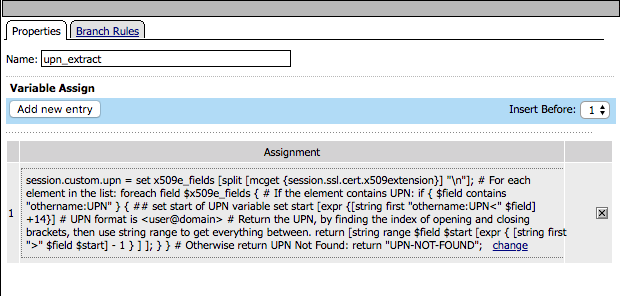
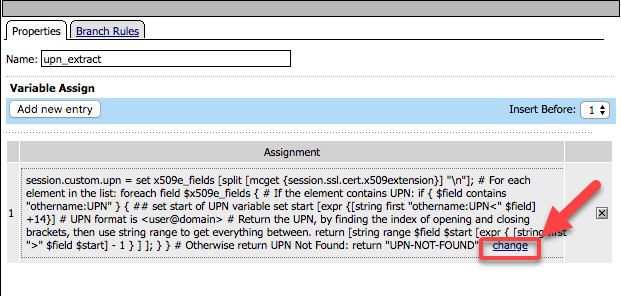
update lab3

Changed region(s): [[0.7649, 0.6081, 0.9791, 0.9122]]

diff --git a/class1/module2/lab03.rst b/class1/module2/lab03.rst
@@ -1,130 +1,205 @@
 Lab 3: Server-Side Single Sign-On
 =====================================
 
-The purpose of this lab is to demonstrate Single Sign-On capabilities
-of APM.    The SSO Credential Mapping action enables users to forward
-stored user names and passwords to applications and servers automatically,
-without having to input credentials repeatedly.   This allows single
-sign-on (SSO) functionality for secure user access.  As different applications
-and resources support different authentication mechanisms, the SSO system
-may be required to store and transform credentials to meet these requirements.
-For example, username and password may be transformed into forms-based
-authentication, a SAML assertion into Kerberos or Kerberos authentication into
-SAML.
+The purpose of this lab is to demonstrate Single Sign-On capabilities of APM.  The SSO Credential Mapping action enables users to forward
+stored user names and passwords to applications and servers automatically, without having to input credentials repeatedly.   This allows single
+sign-on (SSO) functionality for secure user access.  As different applications and resources support different authentication mechanisms, the SSO system
+may be required to store and transform credentials to meet these requirements. For example, username and password may be transformed into forms-based
+authentication, a SAML assertion into Kerberos or Kerberos authentication into SAML.
 
-Although a number of different SSO methods exist, this lab will demonstrate access
-single SSO method, the Kerberos to SAML method.
+Although a number of different SSO methods exist, this lab will demonstrate access single SSO method certificate authentication on the client side to Kerberos authentication to the backend server
 
 Objective:
 
--  Gain an understanding of SSO Token User Name Caching and SSO Token Password
-   Caching.
+-  Gain an understanding of authentication transformation through APM, client side vs server side
 
--  Gain an understanding of the Kerberos to SAML relationship and its
-   component parts.
+-  Gain an understanding of the leveraging different auth methods
 
--  Develop an awareness of the different deployment models that Kerberos
-   to SAML authentication opens up
+-  Develop an awareness of the different deployment models for single sign on
 
 Lab Requirements:
 
--  All Lab requirements will be noted in the tasks that follow
+-  Virtual Servers policies and configuration for this lab were completed through the automation run in Lab1.  We will review the components involved in this SSO solution.
 
 Estimated completion time: 15 minutes
 
-|Lab3-Image1|
+Task 1: Policy review
+-----------------------
 
-A user is prompted to select their certificate.
-The validation of the user certificates is controlled via CA bundles selected in the Client-side SSL Profile.
-The certificate is validated by OCSP if the user presents a certificate issued by a trusted CA
-The othername field is extracted from the certificate
-A LDAP query is performed to collect the sAMAccountName of the user
-The domain and username variables are set
-The user is granted access via the Allow Terminal
-If the LDAP Query is unsuccessful, the user proceeds down the fallback branch to the Deny Terminal
-If the OCSP check is unsuccessful, the user proceeds down the fallback branch to the Deny Terminal
-If the user fails to present a certificate, the user proceeds down the fallback branch to the Deny Terminal
+#. From the jumphost launch Chrome and login to bigip1.f5lab.local.  admin/admin
+
+#. Navigate to **Access** -> **Profiles/Policies** -> **Access Profiles (Per-Session Policies)**
+
+#. Locate solution6-psp and click **Edit**
+
+    |Lab3-Image1|
+
+    Let's walk through the policy flow:
+
+    - A user is prompted to select their certificate.
+
+    - The validation of the user certificates is controlled via CA bundles selected in the Client-side SSL Profile.
+
+    - The certificate is validated by OCSP if the user presents a certificate issued by a trusted CA
+
+    - The othername field is extracted from the certificate
+
+    - A LDAP query is performed to collect the sAMAccountName of the user
+
+    - The domain and username variables are set
+
+    - The user is granted access via the Allow Terminal
+
+    - If the LDAP Query is unsuccessful, the user proceeds down the fallback branch to the Deny Terminal
+
+    - If the OCSP check is unsuccessful, the user proceeds down the fallback branch to the Deny Terminal
+
+    - If the user fails to present a certificate, the user proceeds down the fallback branch to the Deny Terminal
+
+Task 2: Supporting APM Objects review
+---------------------------------------
+
+#. Navigate to **Access** -> **Authentication** -> **OCSP Responder** and click on the AAA OCSP Responder object **solution6-ocsp-servers**
+
+#. Change the configuration from **Basic** to **Advanced**.  The OCSP Responder has been configured with the following settings:
+
+    - URL: this field is only used if you check the Ignore AIA field
+
+    - Certificate Authority File: contains the root ca bundle
+
+    - Certificate Authority Path: this field is only used if you check the Ignore AIA field
+
+    - The rest of the settings are default
+
+    |Lab3-Image10|
+
+#. Navigate to **Access** -> **Authentication** -> **LDAP** for the AAA LDAP Object
+
+#. Click on **solution6-ldap-servers**. A single LDAP server of 10.1.20.7 has been configured with a admin service account to support queries
+
+    |Lab3-Image11|
+
+#. Navigated to **Access** -> **Single Sign-On** -> **Kerberos** and review the Kerberos SSO Object **solution6-kerbsso**
+
+    - The Username Source field has been modified from the default to reference the sAMAccountName stored in session.logon.last.username
+
+    - Kerberos Realm has been set to the Active Directory domain (realms should always be in uppercase)
+
+    - The service account used for Kerberos Constrained Delegation (Service Account Names should be in SPN format)
+
+    - SPN Pattern has been hardcoded to HTTP/solution6.acme.com (This is only necessary if the SPN doesn’t match the FQDN typed in the web browser by the user)
+
+    |Lab3-Image12|
+
+Task 3: Access Profile Configuration
+--------------------------------------
+
+#. Navigate to **Access** -> **Profiles/Policies** -> **Access Profiles (Per-Session Policies)** and locate the **solution6-psp** profile.  Click on the profile and review the customized APM Profile Settings
+
+#. Click on the SSO/Auth Domains of the APM profile and note it is configured with the Kerberos SSO Profile which will be used to authenticate to the backend server.
+
+    |Lab3-Image9|
+
+#. Click on **Access Policy** and the **Edit Access Policy for Profile "solution6-psp"** link
+
+    .. Note::  You can also see from this screen any AAA server objects associated with this profile/policy.  You can see we will be using the OCSP responder and
+
+#. Click on the **On-Demand Cert Auth** box in the VPE.  The agent uses the default settings of **Auth Mode** = **Request**
+
+    |Lab3-Image2|
+
+#. Click **Cancel**
+
+#. Click on the **OCSP Auth** box.  The OCSP Agent validates the certificate against the OCSP responder configured
+
+    |Lab3-Image3|
+
+#. Click Cancel
+
+#. Click the **upn extract** box.  Under Assignment click on the **Change** link
+
+    |Lab3-Image4|
+
+#. Note that a custom variable will be created called session.custom.upn.  We will write an expression that will extract the othername:UPN field from the certificate for a new custom variable.
+
+    .. code-block::
+    :caption: Expression used for othername:UPN extraction
+
+      set x509e_fields [split [mcget {session.ssl.cert.x509extension}] "\n"];
+      # For each element in the list:
+        foreach field $x509e_fields {
+      # If the element contains UPN:
+        if { $field contains "othername:UPN" } {
+      ## set start of UPN variable
+        set start [expr {[string first "othername:UPN<" $field] +14}]
+      # UPN format is <user@domain>
+      # Return the UPN, by finding the index of opening and closing brackets, then use string range to get everything between.
+        return [string range $field $start [expr { [string first ">" $field $start] - 1 } ] ];  } }
+      # Otherwise return UPN Not Found:
+        return "UPN-NOT-FOUND";
+
+      |Lab3-Image15|
+
+#. Click Cancel twice
+
+#. Click the LDAP Query box. The LDAP query connects to the LDAP server to the dc=f5lab,dc=local DN for a user that contains the userPrincipalName matching the value stored in session.custom.upn.
+
+#. You can see that we are using the AAA LDAP object created early to validate the variable session.custom.upn. The LDAP query requests the sAMAccountName attribute if the user is found.
+
+      |Lab3-Image5|
+
+#. Click on **Branch Rules**. The branch rule was modified to only require a LDAP Query passed condition
+
+      |Lab3-Image6|
+
+#. Click **Cancel**
+
+#. Click the **set_variables** box.  Two session variables are set
+
+      - session.logon.last.username is populated with the value of the sAMAccountName returned in the LDAP query
+      - session.logon.last.domain is populated with a static value for the Active Directory domain F5LAB.LOCAL
+
+      |Lab3-Image7|
 
 
-Policy Agent Configuration
+Task 4: Customized LTM Profile settings
+------------------------------------------
 
-- The On-Demand Cert Auth Agent uses the default settings
+We will need to make some modifications to the client SSL profile to accommodate Certificate authentication.
 
-|Lab3-Image2|
+#. Navigate to **Local Traffic** from the left menu.  Under Partitions select the drop down and choose **solution6**.  This will change the partition so that you can see the LTM objects used in this lab.
 
-- The OCSP Agent validates the certificate against the OCSP responder configured
+    .. Note:: We deployed the LTM objects in to another administrative partition for the purposes of separating the objects.  If you were to deploy this in your own environment using a partition is not a requirement.
 
-|Lab3-Image3|
+    |Lab3-Image16|
 
-- The othername field is extracted from the certificate and saved as session variable session.custom.upn
+#. Navigate to **Local Traffic** -> **Profiles** -> **SSL** -> **Client**.  Click on **solution6-clientssl**.
 
-|Lab3-Image4|
+#. In he Client-side SSL profile scroll down to the **Client Authentication** section and notice it has been modified to support certificate authentication
 
-- The LDAP query connects to the LDAP server to the dc=f5lab,dc=local DN for a user that contains the userPrincipalName matching the value stored in session.custom.upn
+    **Trusted Certificate Authorities has been set to ca.f5lab.local**
 
-- The LDAP query requests the sAMAccountName attribute if the user is found
+      - The bundle validates client certificates by these issuers
+      - The bundle must include all CAs in the chain
 
-|Lab3-Image5|
+    **Advertised Certificate Authorities has ben set to ca.f5lab.local**
 
-- The branch rule was modified to only require a LDAP Query passed condition
+      - The bundle controls which certificates are displayed to a user when they are prompted to select their certificate
 
-|Lab3-Image6|
+    |Lab3-Image8|
 
-Two session variables are set
-session.logon.last.username is populated with the value of the sAMAccountName returned in the LDAP query
-session.logon.last.domain is populated with a static value for the Active Directory domain F5LAB.LOCAL
+Task 5: Logging in from a user’s perspective
+----------------------------------------------
 
-|Lab3-Image7|
+#.  Open an incognito window in the Chrome browser
 
-Customized LTM Profile settings
+#.  You will be presented with three possible certificates.  Choose **User1** and click **OK**
 
-The Client-side SSL profile Client Authentication section has been modified to support certificate authentication
-  Trusted Certificate Authorities has been set to ca.f5lab.local
-    The bundle validates client certificates by these issuers
-    The bundle must include all CAs in the chain
-Advertised Certificate Authorities has ben set to ca.f5lab.local
-  The bundle controls which certificates are displayed to a user when they are prompted to select their certificate
+    |Lab3-Image13|
 
-  |Lab3-Image8|
+#. If successful the user is granted access to the application
 
-  Customized APM Profile Settings
-  The SSO/Auth Domains of the APM profile is configured with the Kerberos SSO Profile needed to authenticate to the server.
-
-  |Lab3-Image9|
-
-Supporting APM Objects
-AAA OCSP Responder
-The OCSP Responder has been configured with the following settings
-
-- URL: this field is only used if you check the Ignore AIA field
-- Certificate Authority File: contains the root ca bundle
-- Certificate Authority Path: this field is only used if you check the Ignore AIA field
-
-|Lab3-Image10|
-
-AAA LDAP Object
-
-A single LDAP server of 10.1.20.7 has been configured with a admin service account to support queries
-
-|Lab3-Image11|
-
-Kerberos SSO Object
-- The Username Source field has been modified from the default to reference the sAMAccountName stored in session.logon.last.username
-- Kerberos Realm has been set to the Active Directory domain (realms should always be in uppercase)
-- The service account used for Kerberos Constrained Delegation (Service Account Names should be in SPN format)
-- SPN Pattern has been hardcoded to HTTP/solution6.acme.com (This is only necessary if the SPN doesn’t match the FQDN typed in the web browser by the user)
-
-|Lab3-Image12|
-
-The Policy from a user’s perspective
-User1
-User1 is prompted to select their certificate
-
-|Lab3-Image13|
-
-If successful the user is granted access to the application
-
-|Lab3-Image14|
+    |Lab3-Image14|
 
 Lab 3 is now complete.
 
@@ -142,3 +217,5 @@ Lab 3 is now complete.
 .. |Lab3-Image12| image:: ./media/Lab3-Image12.png
 .. |Lab3-Image13| image:: ./media/Lab3-Image13.png
 .. |Lab3-Image14| image:: ./media/Lab3-Image14.png
+.. |Lab3-Image15| image:: ./media/Lab3-Image15.png
+.. |Lab3-Image16| image:: ./media/Lab3-Image16.png

diff --git a/class1/module2/lab01.rst b/class1/module2/lab01.rst
@@ -52,18 +52,36 @@ To access your dedicated student lab environment, you will need a web browser an
    |issues|
 
 
-Task 1: Intro to Per-Session Policy
----------------------------------------
-The per-session policy runs when a client initiates a session. (A per-session policy is also known as an access policy.)
+Task 1: Intro to Access Profiles and Policies
+-----------------------------------------------
+Access Policy Manager (APM) provides two types of policies.
 
-Depending on the actions you include in the access policy, it can authenticate the user and perform other actions that populate session variables with data for use throughout the session.
+**Per-session policy**
+
+    The per-session policy runs when a client initiates a session. (A per-session policy is also known as an access policy.) Depending on the actions you include in the access policy, it can authenticate the user and perform other actions that populate session variables with data for use throughout the session.
+
+**Per-request policy**
+
+    After a session starts, a per-request policy runs each time the client makes an HTTP or HTTPS request. Because of this behavior, a per-request policy is particularly useful in the context of a Zero Trust scenario, where the client requires re-verification on every request. A per-request policy can include a subroutine, which starts a subsession. Multiple subsessions can exist at one time. You cannot use subroutines in macros within per-request policies.
+
+You can associate one access policy and one per-request policy with a virtual server.
+
+**Access Session**
+
+    An access session is recorded when a client initiates a connection through a per-session policy.  Once an access session is established it has a set of timeouts set within the Access profile.  A session will terminate if it reaches a timeout or the client ends the session.  An access session is now not limited by a license but by the platform running APM.  For more information on APM licensing see `K15624537: BIG-IP APM Licensing for BIG-IP Standard Platforms <https://support.f5.com/csp/article/K15624537>`_
+
+**Subsession**
+
+    A subsession is part of the per-request policy framework.  It starts when a subroutine (within a per-request policy) runs and continues until reaching the maximum lifetime specified in the subroutine properties, or until the session terminates. A subsession populates subsession variables that are available for the duration of the subsession. Subsession variables and events that occur during a subsession are logged.
+
+    Multiple subsessions can exist at the same time. The maximum number of subsessions allowed varies across platforms. The total number of subsessions is limited by the session limits in APM (128 * max sessions). Creating a subsession does not count against the license limit.
+
 
 
 Objectives
 ----------
 
-The lab has a pre-configured test Virtual Server which will be used throughout the lab.  You will the Visual Policy Editor (VPE)
-to create and attach a simple Access Profile which performs user authentication.
+The lab has a pre-configured test Virtual Server which will be used throughout the lab.  You will use the Visual Policy Editor (VPE) to create and attach a simple Access Profile which performs user authentication.
 
 Lab Requirements
 ----------------
@@ -228,17 +246,6 @@ You will see a screen similar to the following:
 
    |Lab1-Image18|
 
-Task 5: Adding in Per-Request Posture Check
---------------------------------------------
-
-Add in a PRP with Posture assessment
-Steps in progress
-
-Task 6: Sessions and subsessions
----------------------------------
-
-Explanation and Overview
-Steps in progress
 
 Task 7: Troubleshooting tips
 ----------------------------
@@ -301,4 +308,3 @@ Lab 1 is now complete.
 .. |lab01fly| image:: ./media/lab01fly.png
 .. |process| image:: ./media/process.png
 .. |issues| image:: ./media/issues.png
-

diff --git a/class1/module2/lab02.rst b/class1/module2/lab02.rst
@@ -44,7 +44,7 @@ Lab 2 Tasks:
 -----------------
 
 TASK 1: Create Per Session Policy
-~~~~~~~~~~~~~~~~~~~~~~~~~~~~~~~~~~~~~~~~~~~~~~~~
+----------------------------------
 
 Refer to the instructions and screen shots below:
 
